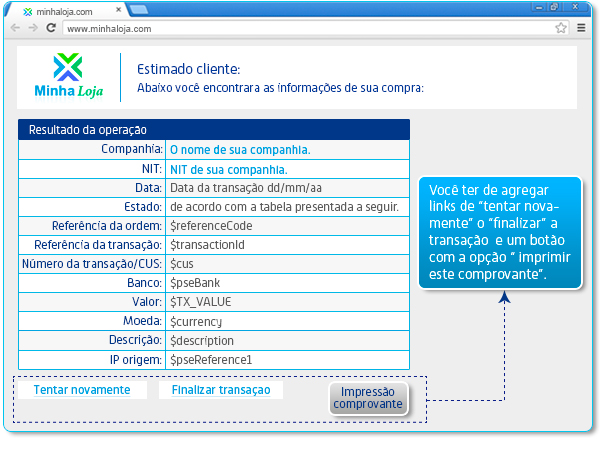
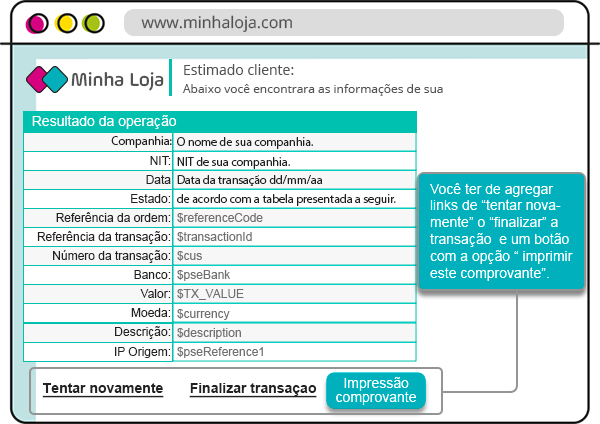
Cargue de imágenes y corrección de error gramático.
*Se cargan los imagenes para los instructivos PSE en la api de pagos
para los 3 idiomas.

*Se cambia en los menos desplegables de api y sdk la palabra querys por
queries

diff --git a/_es/api/payments.html b/_es/api/payments.html
@@ -3730,11 +3730,11 @@ Ejemplo respuesta:
 </div>
 
 <span class="grey-text-13"><b>2</b>. El listado obtenido, se debe mostrar al pagador de la siguiente manera:</span>
-<p align="center"><img src="/images/api/pse-1.jpg" alt="" border="0" /></p>
+<p align="center"><img src="/images/api/pse-1-es.jpg" alt="" border="0" /></p>
 
 <span class="grey-text-13"><b>3</b>. Se debe desplegar una lista, donde el pagador escoja si es una “persona natural” (N) o una “persona jurídica (J).
 ‘N’ o ‘J’ dependiendo lo que el pagador haya escogido, debe ser enviado en el parámetro USER_TYPE en la petición</span>
-<p align="center"><img src="/images/api/pse-2.jpg" alt="" border="0" /></p>
+<p align="center"><img src="/images/api/pse-2-es.jpg" alt="" border="0" /></p>
 
 <span class="grey-text-13"><b>4</b>. Se debe desplegar otra lista en el formulario, que le permita al pagador escoger el tipo de documento, el ISO del documento escogido se debe enviar en el parámetro PSE_REFERENCE2 en la petición en la petición (SUBMIT_TRANSACTION). Los códigos ISO admitidos son:</span>
 <div class="Table1">
@@ -3784,7 +3784,7 @@ Ejemplo respuesta:
 </table>
 </div>
 &nbsp;
-<p align="center"><img src="/images/api/pse-3.jpg" alt="" border="0" /></p>
+<p align="center"><img src="/images/api/pse-3-es.jpg" alt="" border="0" /></p>
 
 <span class="grey-text-13"><b>5</b>. Por último, se debe capturar el número de identificación del pagador y enviarlo en el parámetro PSE_REFERENCE3 de la petición</span>
 <br/><br/>
@@ -3972,7 +3972,7 @@ Ejemplo respuesta:
 <br/><br/>
 <span class="grey-text-13"><b>6</b>. Cuando el pagador finalice la transacción en la oficina virtual de su banco, será direccionado a la página de respuesta que está configurada en el módulo administrativo y se debe mostrar la siguiente información:
 Los campos con el caracter "$" al comienzo, son parámetros que se envían por GET y que deben capturar</span>
-<p align="center"><img src="/images/api/pse-4.jpg" alt="" border="0" /></p>
+<p align="center"><img src="/images/api/pse-4-es.jpg" alt="" border="0" /></p>
 <span class="grey-text-13">Nota:</span>
 <ol>
 	<li class="bullet-box">La página debe tener un link de “reintento” que le permitirá al pagador intentar nuevamente el pago si la transacción no fue exitosa.</li>

diff --git a/_includes/header_en.html b/_includes/header_en.html
@@ -12,7 +12,7 @@
 						<li class="expanded"><a {% if page.category == "api" %} {{ "class='active'" }} {% endif %} href="#" title="">API</a>
 							<ul class="menu">
 								<li class="first leaf"><a href="{{ site.baseurl }}/en/api" title="">Introduction</a></li>
-								<li class="leaf"><a href="{{ site.baseurl }}/en/api/queries.html" title="">Querys</a></li>
+								<li class="leaf"><a href="{{ site.baseurl }}/en/api/queries.html" title="">Queries</a></li>
 								<li class="leaf"><a href="{{ site.baseurl }}/en/api/payments.html" title="">Payments</a></li>
 								<li class="leaf"><a href="{{ site.baseurl }}/en/api/tokenization.html" title="">Tokenization</a></li>
 								<li class="leaf"><a href="{{ site.baseurl }}/en/api/recurring_payments.html" title="">Recurring payments</a></li>
@@ -28,7 +28,7 @@
 						<li class="expanded"><a {% if page.category == "sdk" %} {{ "class='active'" }} {% endif %} href="#" title="">SDK</a>
 							<ul class="menu">
 								<li class="first leaf"><a href="{{ site.baseurl }}/en/sdk" title="">Introduction</a></li>
-								<li class="leaf"><a href="{{ site.baseurl }}/en/sdk/queries.html" title="">Querys</a></li>
+								<li class="leaf"><a href="{{ site.baseurl }}/en/sdk/queries.html" title="">Queries</a></li>
 								<li class="leaf"><a href="{{ site.baseurl }}/en/sdk/payments.html" title="">Payments</a></li>
 								<li class="leaf"><a href="{{ site.baseurl }}/en/sdk/tokenization.html" title="">Tokenization</a></li>
 								<li class="leaf"><a href="{{ site.baseurl }}/en/sdk/recurring_payments.html" title="">Recurring payments</a></li>
